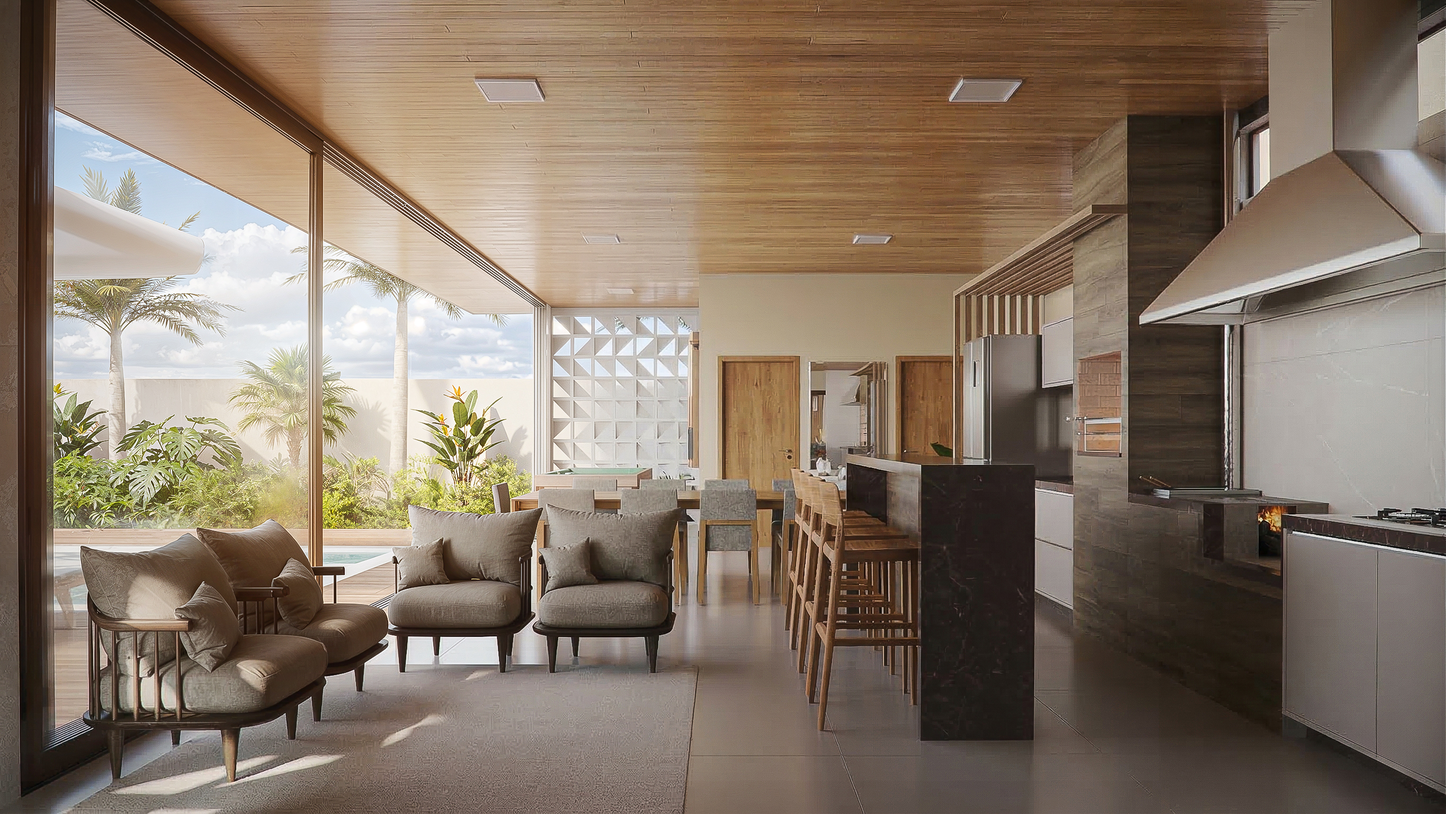
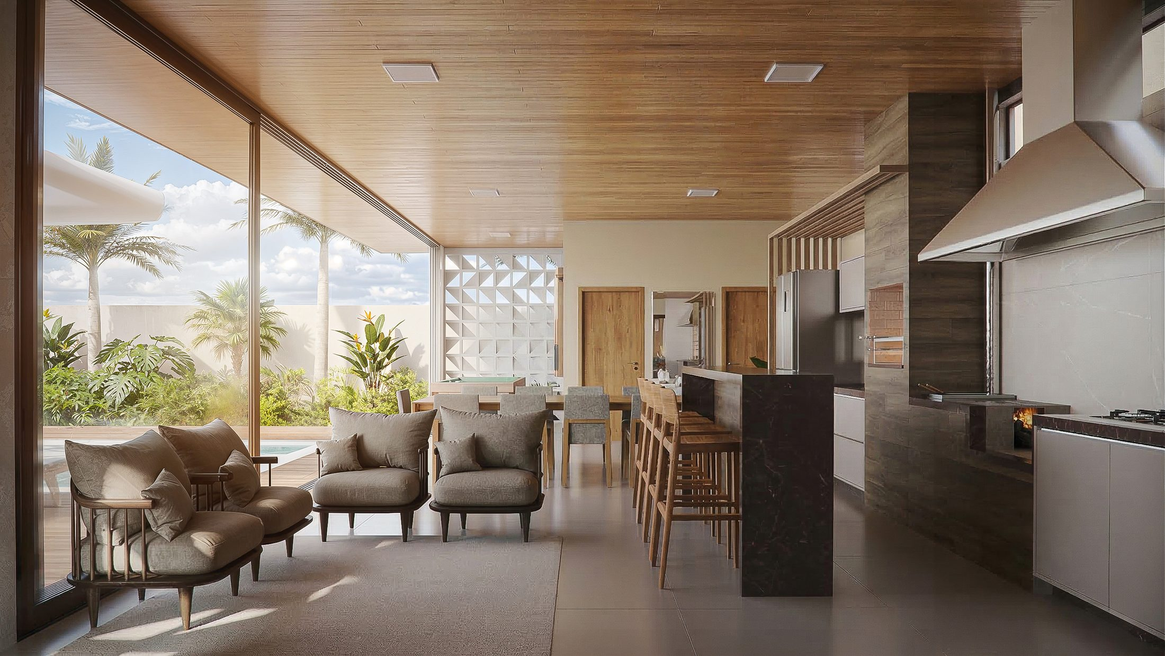
Add mobile responsive layout and optimize image assets
Add hamburger nav, fix portfolio tile stacking, fix Sobre section
scroll (missing pointer-events was blocking touch scroll), tighten
mobile spacing, and swap 100vh for 100svh. Resize/recompress all
images for web delivery (230MB -> ~15MB) and convert the profile
photo from PNG to JPEG.

diff --git a/index.html b/index.html
@@ -21,22 +21,24 @@
   /* ---------- nav ---------- */
   .ec-nav{
     position:fixed;top:0;left:0;width:100%;z-index:20;
-    display:flex;justify-content:center;gap:clamp(20px,4vw,48px);
+    display:flex;justify-content:center;
     padding:22px clamp(24px,6vw,96px);
   }
+  .ec-nav-links{display:flex;gap:clamp(20px,4vw,48px);}
   .ec-nav a{
     font-size:12px;letter-spacing:0.16em;text-transform:uppercase;color:#D8D8D8;
     padding-bottom:6px;border-bottom:1px solid transparent;
     transition:color .3s ease,border-color .3s ease;
   }
   .ec-nav a:hover{color:#FAFAFA;border-bottom-color:#FAFAFA;}
+  .ec-nav-toggle{display:none;}
 
   /* ---------- scroll stage ---------- */
   .ec-stage{position:relative;height:520vh;}
   .ec-anchor{position:absolute;height:1px;width:1px;}
   #sobre{top:200vh;}
   #contato{top:400vh;}
-  .ec-sticky{position:sticky;top:0;height:100vh;overflow:hidden;}
+  .ec-sticky{position:sticky;top:0;height:100vh;height:100svh;overflow:hidden;}
 
   /* ---------- hero ---------- */
   .ec-hero{position:absolute;inset:0;}
@@ -153,6 +155,51 @@
     transition:color .3s ease,border-color .3s ease;
   }
   .ec-socials a:hover{color:#FAFAFA;border-bottom-color:#FAFAFA;}
+
+  /* ---------- mobile (<=820px) ---------- */
+  @media (max-width:820px){
+    .ec-nav-toggle{
+      display:flex;flex-direction:column;justify-content:center;gap:5px;
+      position:fixed;top:20px;right:20px;z-index:61;
+      width:36px;height:36px;padding:0;
+      background:transparent;border:none;cursor:pointer;
+    }
+    .ec-nav-toggle span{
+      display:block;width:100%;height:1.5px;background:#FAFAFA;
+      transition:transform .25s ease,opacity .25s ease;
+    }
+    .ec-nav-toggle.is-open span:nth-child(1){transform:translateY(6.5px) rotate(45deg);}
+    .ec-nav-toggle.is-open span:nth-child(2){opacity:0;}
+    .ec-nav-toggle.is-open span:nth-child(3){transform:translateY(-6.5px) rotate(-45deg);}
+
+    .ec-nav-links{
+      position:fixed;inset:0;z-index:60;
+      flex-direction:column;align-items:center;justify-content:center;gap:28px;
+      background:rgba(10,10,10,0.98);
+      opacity:0;visibility:hidden;pointer-events:none;
+      transition:opacity .25s ease;
+    }
+    .ec-nav-links.is-open{opacity:1;visibility:visible;pointer-events:auto;}
+    .ec-nav-links a{font-size:15px;}
+
+    /* logo + scroll arrows: stack instead of cramming side by side */
+    .ec-logo-row{flex-direction:column;gap:20px;}
+
+    /* portfolio tiles: stack instead of clipping the wrapped second row */
+    .ec-tiles{height:auto;flex-direction:column;flex-wrap:nowrap;}
+    .ec-tile{flex:1 1 auto;min-width:0;width:100%;min-height:130px;padding:24px 16px;}
+    .ec-tile:first-child{border-right:none;border-bottom:1px solid rgba(250,250,250,0.14);}
+    .ec-portfolio{max-height:100%;overflow-y:auto;-webkit-overflow-scrolling:touch;padding:24px 0;}
+
+    /* sobre / contato: align to top, tighten spacing, and allow internal scroll instead of hard-clipping long text */
+    .ec-overlay-inner{
+      justify-content:flex-start;
+      padding-top:72px;padding-bottom:20px;
+      overflow-y:auto;-webkit-overflow-scrolling:touch;
+    }
+    .ec-overlay-title{margin-bottom:14px;}
+    .ec-sobre-body{font-size:14px;line-height:1.5;margin-bottom:14px;}
+  }
 </style>
 </head>
 <body>
@@ -160,11 +207,16 @@
 <div id="home">
 
   <nav class="ec-nav">
-    <a href="#home">Home</a>
-    <a href="visualizacao.html">Archviz</a>
-    <a href="#arquitetura">Arquitetura</a>
-    <a href="#sobre">Sobre</a>
-    <a href="#contato">Contato</a>
+    <div class="ec-nav-links" data-nav-links>
+      <a href="#home">Home</a>
+      <a href="visualizacao.html">Archviz</a>
+      <a href="#arquitetura">Arquitetura</a>
+      <a href="#sobre">Sobre</a>
+      <a href="#contato">Contato</a>
+    </div>
+    <button class="ec-nav-toggle" type="button" data-nav-toggle aria-label="Abrir menu" aria-expanded="false">
+      <span></span><span></span><span></span>
+    </button>
   </nav>
 
   <div class="ec-stage">
@@ -212,7 +264,7 @@
 
       <!-- sobre -->
       <div class="ec-overlay ec-overlay--sobre" data-sobre-overlay>
-        <img class="ec-overlay-img" src="uploads/IMAGEM%20PERFIL.png" alt="Retrato de Evandro Colombo em galeria de arcos de concreto">
+        <img class="ec-overlay-img" src="uploads/IMAGEM%20PERFIL.jpg" alt="Retrato de Evandro Colombo em galeria de arcos de concreto">
         <div class="ec-overlay-scrim"></div>
         <div class="ec-overlay-inner" data-sobre-text>
           <span class="ec-overlay-title">Sobre</span>
@@ -292,6 +344,7 @@ Neste site, torno pública um pouco dessa minha caminhada.</h2>
 
       heroLayer.style.opacity = tp > 0.5 ? '0' : '1';
       sobreOverlay.style.opacity = tp > 0.5 ? '1' : '0';
+      sobreOverlay.style.pointerEvents = tp > 0.5 ? 'auto' : 'none';
       sobreText.style.transform = 'none';
 
       contatoOverlay.style.opacity = tp2 > 0.5 ? '1' : '0';
@@ -316,6 +369,7 @@ Neste site, torno pública um pouco dessa minha caminhada.</h2>
     heroLayer.style.opacity = String(1 - tp);
     heroLayer.style.transform = 'translateY(' + (-70 * tp) + 'px)';
     sobreOverlay.style.opacity = String(tp);
+    sobreOverlay.style.pointerEvents = tp > 0.4 ? 'auto' : 'none';
     sobreText.style.transform = 'translateY(' + (40 * (1 - tp)) + 'px)';
 
     // sobre → contato
@@ -346,6 +400,27 @@ Neste site, torno pública um pouco dessa minha caminhada.</h2>
       var el = document.querySelector(hash);
       if (el) el.scrollIntoView();
     }, 50);
+  }
+
+  /* ---------- mobile hamburger menu ---------- */
+  var navToggle = document.querySelector('[data-nav-toggle]');
+  var navLinks  = document.querySelector('[data-nav-links]');
+  if (navToggle && navLinks) {
+    var setMenuOpen = function (isOpen) {
+      navLinks.classList.toggle('is-open', isOpen);
+      navToggle.classList.toggle('is-open', isOpen);
+      navToggle.setAttribute('aria-expanded', String(isOpen));
+      document.body.style.overflow = isOpen ? 'hidden' : '';
+    };
+    navToggle.addEventListener('click', function () {
+      setMenuOpen(!navLinks.classList.contains('is-open'));
+    });
+    navLinks.addEventListener('click', function (e) {
+      if (e.target.tagName === 'A') setMenuOpen(false);
+    });
+    window.addEventListener('keydown', function (e) {
+      if (e.key === 'Escape' && navLinks.classList.contains('is-open')) setMenuOpen(false);
+    });
   }
 })();
 </script>

diff --git a/projeto-tack-nexus.html b/projeto-tack-nexus.html
@@ -29,9 +29,10 @@
 
   .ec-nav{
     position:fixed;top:0;left:0;width:100%;z-index:50;
-    display:flex;justify-content:center;gap:clamp(20px,4vw,48px);
+    display:flex;justify-content:center;
     padding:22px clamp(24px,6vw,96px);
   }
+  .ec-nav-links{display:flex;gap:clamp(20px,4vw,48px);}
   .ec-nav a{
     font-size:12px;letter-spacing:0.16em;text-transform:uppercase;color:#D8D8D8;
     padding-bottom:6px;border-bottom:1px solid transparent;
@@ -39,6 +40,7 @@
   }
   .ec-nav a:hover{color:var(--paper);border-bottom-color:var(--paper);}
   .ec-nav a.is-active{color:var(--paper);border-bottom-color:var(--paper);}
+  .ec-nav-toggle{display:none;}
 
   .ec-page-header{
     max-width:var(--content-max);margin:0 auto;
@@ -83,6 +85,30 @@
 
   @media (max-width:820px){
     .ec-grid{grid-template-columns:repeat(2,1fr);}
+
+    .ec-nav-toggle{
+      display:flex;flex-direction:column;justify-content:center;gap:5px;
+      position:fixed;top:20px;right:20px;z-index:61;
+      width:36px;height:36px;padding:0;
+      background:transparent;border:none;cursor:pointer;
+    }
+    .ec-nav-toggle span{
+      display:block;width:100%;height:1.5px;background:var(--paper);
+      transition:transform .25s ease,opacity .25s ease;
+    }
+    .ec-nav-toggle.is-open span:nth-child(1){transform:translateY(6.5px) rotate(45deg);}
+    .ec-nav-toggle.is-open span:nth-child(2){opacity:0;}
+    .ec-nav-toggle.is-open span:nth-child(3){transform:translateY(-6.5px) rotate(-45deg);}
+
+    .ec-nav-links{
+      position:fixed;inset:0;z-index:60;
+      flex-direction:column;align-items:center;justify-content:center;gap:28px;
+      background:rgba(10,10,10,0.98);
+      opacity:0;visibility:hidden;pointer-events:none;
+      transition:opacity .25s ease;
+    }
+    .ec-nav-links.is-open{opacity:1;visibility:visible;pointer-events:auto;}
+    .ec-nav-links a{font-size:15px;}
   }
   @media (max-width:480px){
     .ec-grid{grid-template-columns:1fr;}
@@ -134,11 +160,16 @@
 <body>
 
 <nav class="ec-nav">
-  <a href="index.html#home">Home</a>
-  <a href="visualizacao.html" class="is-active">Archviz</a>
-  <a href="index.html#arquitetura">Arquitetura</a>
-  <a href="index.html#sobre">Sobre</a>
-  <a href="index.html#contato">Contato</a>
+  <div class="ec-nav-links" data-nav-links>
+    <a href="index.html#home">Home</a>
+    <a href="visualizacao.html" class="is-active">Archviz</a>
+    <a href="index.html#arquitetura">Arquitetura</a>
+    <a href="index.html#sobre">Sobre</a>
+    <a href="index.html#contato">Contato</a>
+  </div>
+  <button class="ec-nav-toggle" type="button" data-nav-toggle aria-label="Abrir menu" aria-expanded="false">
+    <span></span><span></span><span></span>
+  </button>
 </nav>
 
 <header class="ec-page-header">
@@ -270,6 +301,27 @@
     else if (e.key === 'ArrowLeft') step(-1);
     else if (e.key === 'ArrowRight') step(1);
   });
+
+  /* ---------- mobile hamburger menu ---------- */
+  var navToggle = document.querySelector('[data-nav-toggle]');
+  var navLinks  = document.querySelector('[data-nav-links]');
+  if (navToggle && navLinks) {
+    var setMenuOpen = function (isOpen) {
+      navLinks.classList.toggle('is-open', isOpen);
+      navToggle.classList.toggle('is-open', isOpen);
+      navToggle.setAttribute('aria-expanded', String(isOpen));
+      document.body.style.overflow = isOpen ? 'hidden' : '';
+    };
+    navToggle.addEventListener('click', function () {
+      setMenuOpen(!navLinks.classList.contains('is-open'));
+    });
+    navLinks.addEventListener('click', function (e) {
+      if (e.target.tagName === 'A') setMenuOpen(false);
+    });
+    window.addEventListener('keydown', function (e) {
+      if (e.key === 'Escape' && navLinks.classList.contains('is-open')) setMenuOpen(false);
+    });
+  }
 })();
 </script>
 

diff --git a/visualizacao.html b/visualizacao.html
@@ -28,9 +28,10 @@
 
   .ec-nav{
     position:fixed;top:0;left:0;width:100%;z-index:50;
-    display:flex;justify-content:center;gap:clamp(20px,4vw,48px);
+    display:flex;justify-content:center;
     padding:22px clamp(24px,6vw,96px);
   }
+  .ec-nav-links{display:flex;gap:clamp(20px,4vw,48px);}
   .ec-nav a{
     font-size:12px;letter-spacing:0.16em;text-transform:uppercase;color:#D8D8D8;
     padding-bottom:6px;border-bottom:1px solid transparent;
@@ -38,6 +39,7 @@
   }
   .ec-nav a:hover{color:var(--paper);border-bottom-color:var(--paper);}
   .ec-nav a.is-active{color:var(--paper);border-bottom-color:var(--paper);}
+  .ec-nav-toggle{display:none;}
 
   .ec-hero{
     position:relative;height:70vh;min-height:480px;overflow:hidden;
@@ -69,6 +71,30 @@
 
   @media (max-width:820px){
     .ec-grid{grid-template-columns:1fr;}
+
+    .ec-nav-toggle{
+      display:flex;flex-direction:column;justify-content:center;gap:5px;
+      position:fixed;top:20px;right:20px;z-index:61;
+      width:36px;height:36px;padding:0;
+      background:transparent;border:none;cursor:pointer;
+    }
+    .ec-nav-toggle span{
+      display:block;width:100%;height:1.5px;background:var(--paper);
+      transition:transform .25s ease,opacity .25s ease;
+    }
+    .ec-nav-toggle.is-open span:nth-child(1){transform:translateY(6.5px) rotate(45deg);}
+    .ec-nav-toggle.is-open span:nth-child(2){opacity:0;}
+    .ec-nav-toggle.is-open span:nth-child(3){transform:translateY(-6.5px) rotate(-45deg);}
+
+    .ec-nav-links{
+      position:fixed;inset:0;z-index:60;
+      flex-direction:column;align-items:center;justify-content:center;gap:28px;
+      background:rgba(10,10,10,0.98);
+      opacity:0;visibility:hidden;pointer-events:none;
+      transition:opacity .25s ease;
+    }
+    .ec-nav-links.is-open{opacity:1;visibility:visible;pointer-events:auto;}
+    .ec-nav-links a{font-size:15px;}
   }
 
   .ec-footer{padding:var(--space-8) var(--content-pad);text-align:center;}
@@ -81,11 +107,16 @@
 <body>
 
 <nav class="ec-nav">
-  <a href="index.html#home">Home</a>
-  <a href="visualizacao.html" class="is-active">Archviz</a>
-  <a href="index.html#arquitetura">Arquitetura</a>
-  <a href="index.html#sobre">Sobre</a>
-  <a href="index.html#contato">Contato</a>
+  <div class="ec-nav-links" data-nav-links>
+    <a href="index.html#home">Home</a>
+    <a href="visualizacao.html" class="is-active">Archviz</a>
+    <a href="index.html#arquitetura">Arquitetura</a>
+    <a href="index.html#sobre">Sobre</a>
+    <a href="index.html#contato">Contato</a>
+  </div>
+  <button class="ec-nav-toggle" type="button" data-nav-toggle aria-label="Abrir menu" aria-expanded="false">
+    <span></span><span></span><span></span>
+  </button>
 </nav>
 
 <section class="ec-hero">
@@ -114,6 +145,31 @@
 <footer class="ec-footer">
   <span>evandrocolombo</span>
 </footer>
+
+<script>
+(function () {
+  'use strict';
+  var navToggle = document.querySelector('[data-nav-toggle]');
+  var navLinks  = document.querySelector('[data-nav-links]');
+  if (!navToggle || !navLinks) return;
+
+  var setMenuOpen = function (isOpen) {
+    navLinks.classList.toggle('is-open', isOpen);
+    navToggle.classList.toggle('is-open', isOpen);
+    navToggle.setAttribute('aria-expanded', String(isOpen));
+    document.body.style.overflow = isOpen ? 'hidden' : '';
+  };
+  navToggle.addEventListener('click', function () {
+    setMenuOpen(!navLinks.classList.contains('is-open'));
+  });
+  navLinks.addEventListener('click', function (e) {
+    if (e.target.tagName === 'A') setMenuOpen(false);
+  });
+  window.addEventListener('keydown', function (e) {
+    if (e.key === 'Escape' && navLinks.classList.contains('is-open')) setMenuOpen(false);
+  });
+})();
+</script>
 
 </body>
 </html>
